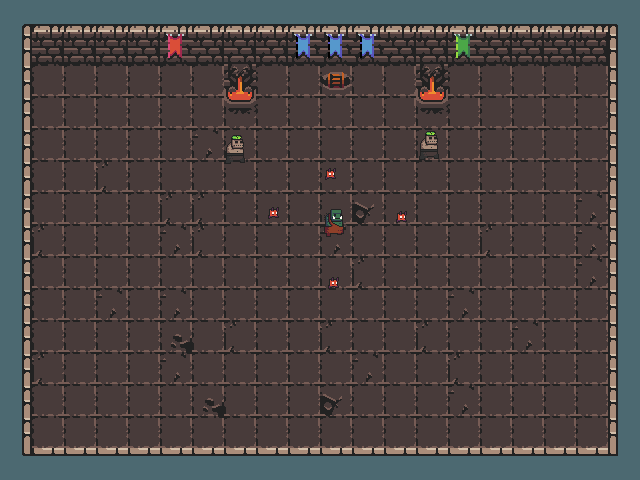
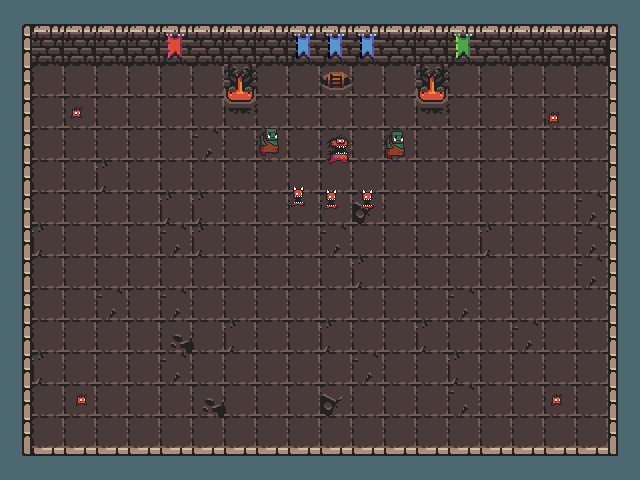
Big_Demon zit erin als laatste baas

diff --git a/SWA/ComponentFactory.cpp b/SWA/ComponentFactory.cpp
@@ -39,6 +39,8 @@ string_code Convert(std::string const& inString) {
 	if (inString == "imp") return cImp;
 	if (inString == "zombie") return cZombie;
 	if (inString == "ogre") return cOgre;
+	if (inString == "big_demon") return cBigDemon;
+
 	return cWall;
 }
 
@@ -95,6 +97,10 @@ int ComponentFactory::CreateEntity(string_code name, int id, Engine::EntityManag
 	}
 	case cOgre: {
 		AddOgreComponents(id, em, true, room);
+		break;
+	}
+	case cBigDemon: {
+		AddBigDemonComponents(id, em, true, room);
 		break;
 	}
 	default: {
@@ -298,6 +304,43 @@ void ComponentFactory::AddOgreComponents(int id, Engine::EntityManager<Component
 	animations.at(State::DEFAULT)->scale = 3;
 	animations.at(State::RUN)->scale = 3;
 	animations.at(State::HIT)->scale = 3;
+	auto ani = std::make_unique<AnimationComponent>(animations, state_to_path, state_to_frames);
+	auto coll = std::make_unique<CollisionComponent>(75, 96, EnemyCollisionHandler, CollisionHandlerNames::EnemyCollisionHandler);
+	em->add_component_to_entity(id, std::move(damage));
+	em->add_component_to_entity(id, std::move(room_comp));
+	em->add_component_to_entity(id, std::move(emc));
+	em->add_component_to_entity(id, std::move(hea));
+	em->add_component_to_entity(id, std::move(vel));
+	em->add_component_to_entity(id, std::move(ani));
+	em->add_component_to_entity(id, std::move(coll));
+	em->add_component_to_entity(id, std::move(sho));
+
+	if (level_boss) {
+		auto boss = std::make_unique<LevelBossComponent>();
+		em->add_component_to_entity(id, std::move(boss));
+	}
+}
+
+void ComponentFactory::AddBigDemonComponents(int id, Engine::EntityManager<Component>* em, bool level_boss, RoomComponent* room) {
+	auto hea = std::make_unique<HealthComponent>(75, 75, 0);
+	auto sho = std::make_unique<ShootingComponent>(7, 200);
+	auto vel = std::make_unique<VelocityComponent>(11);
+	auto emc = std::make_unique<EnemyComponent>();
+	auto room_comp = std::make_unique<RoomComponent>(room->room_name, room->room_index);
+	auto damage = std::make_unique<DamagingComponent>(6);
+	std::unordered_map<State, std::unique_ptr<Animation>> animations;
+	std::unordered_map<State, std::string> state_to_path;
+	std::unordered_map<State, int> state_to_frames;
+	animations.emplace(std::make_pair<State, std::unique_ptr<Animation>>(State::DEFAULT, std::unique_ptr<Animation>(Engine::load_animation("Animations/big_demon_idle.png", 4))));
+	animations.emplace(std::make_pair<State, std::unique_ptr<Animation>>(State::RUN, std::unique_ptr<Animation>(Engine::load_animation("Animations/big_demon_run.png", 4))));
+	state_to_path.emplace(State::DEFAULT, "Animations/big_demon_idle.png");
+	state_to_path.emplace(State::RUN, "Animations/big_demon_run.png");
+	state_to_path.emplace(State::HIT, "Animations/big_demon_idle.png");
+	state_to_frames.emplace(State::DEFAULT, 4);
+	state_to_frames.emplace(State::RUN, 4);
+	state_to_frames.emplace(State::HIT, 1);
+	animations.at(State::DEFAULT)->scale = 3;
+	animations.at(State::RUN)->scale = 3;
 	auto ani = std::make_unique<AnimationComponent>(animations, state_to_path, state_to_frames);
 	auto coll = std::make_unique<CollisionComponent>(75, 96, EnemyCollisionHandler, CollisionHandlerNames::EnemyCollisionHandler);
 	em->add_component_to_entity(id, std::move(damage));

diff --git a/SWA/ComponentFactory.h b/SWA/ComponentFactory.h
@@ -14,7 +14,8 @@ enum string_code {
 	cChort,
 	cImp,
 	cZombie,
-	cOgre
+	cOgre,
+	cBigDemon
 };
 class ComponentFactory
 {
@@ -30,11 +31,11 @@ private:
 	void AddChestComponents(int id, Engine::EntityManager<Component>* em, RoomComponent* room);
 	void AddBlueFlaskComponents(int id, Engine::EntityManager<Component>* em, RoomComponent* room);
 	void AddLadderComponents(int id, Engine::EntityManager<Component>* em, RoomComponent* room);
-	void AddEnemyComponents(int id, Engine::EntityManager<Component>*, bool level_boss, RoomComponent* room);
 	void AddChortComponents(int id, Engine::EntityManager<Component>*, RoomComponent* room);
 	void AddZombieComponents(int id, Engine::EntityManager<Component>*, bool level_boss, RoomComponent* room);
 	void AddImpComponents(int id, Engine::EntityManager<Component>* em, RoomComponent* room);
 	void AddOgreComponents(int id, Engine::EntityManager<Component>*, bool level_boss, RoomComponent* room);
+	void AddBigDemonComponents(int id, Engine::EntityManager<Component>* em, bool level_boss, RoomComponent* room);
 public:
 	static ComponentFactory* get_instance();
 	int CreateEntity(std::string const& name, int id, Engine::EntityManager<Component>*, RoomComponent* room);

diff --git a/SWA/LevelEditor.cpp b/SWA/LevelEditor.cpp
@@ -834,6 +834,10 @@ void LevelEditor::InitObjects()
 		"imp",
 		"imp.png"
 		});
+	objects_in_toolbox_.push_back(EditorObject{
+		"big_demon",
+		"big_demon.png"
+		});
 
 	int x = 1140;
 	int y = 25;
